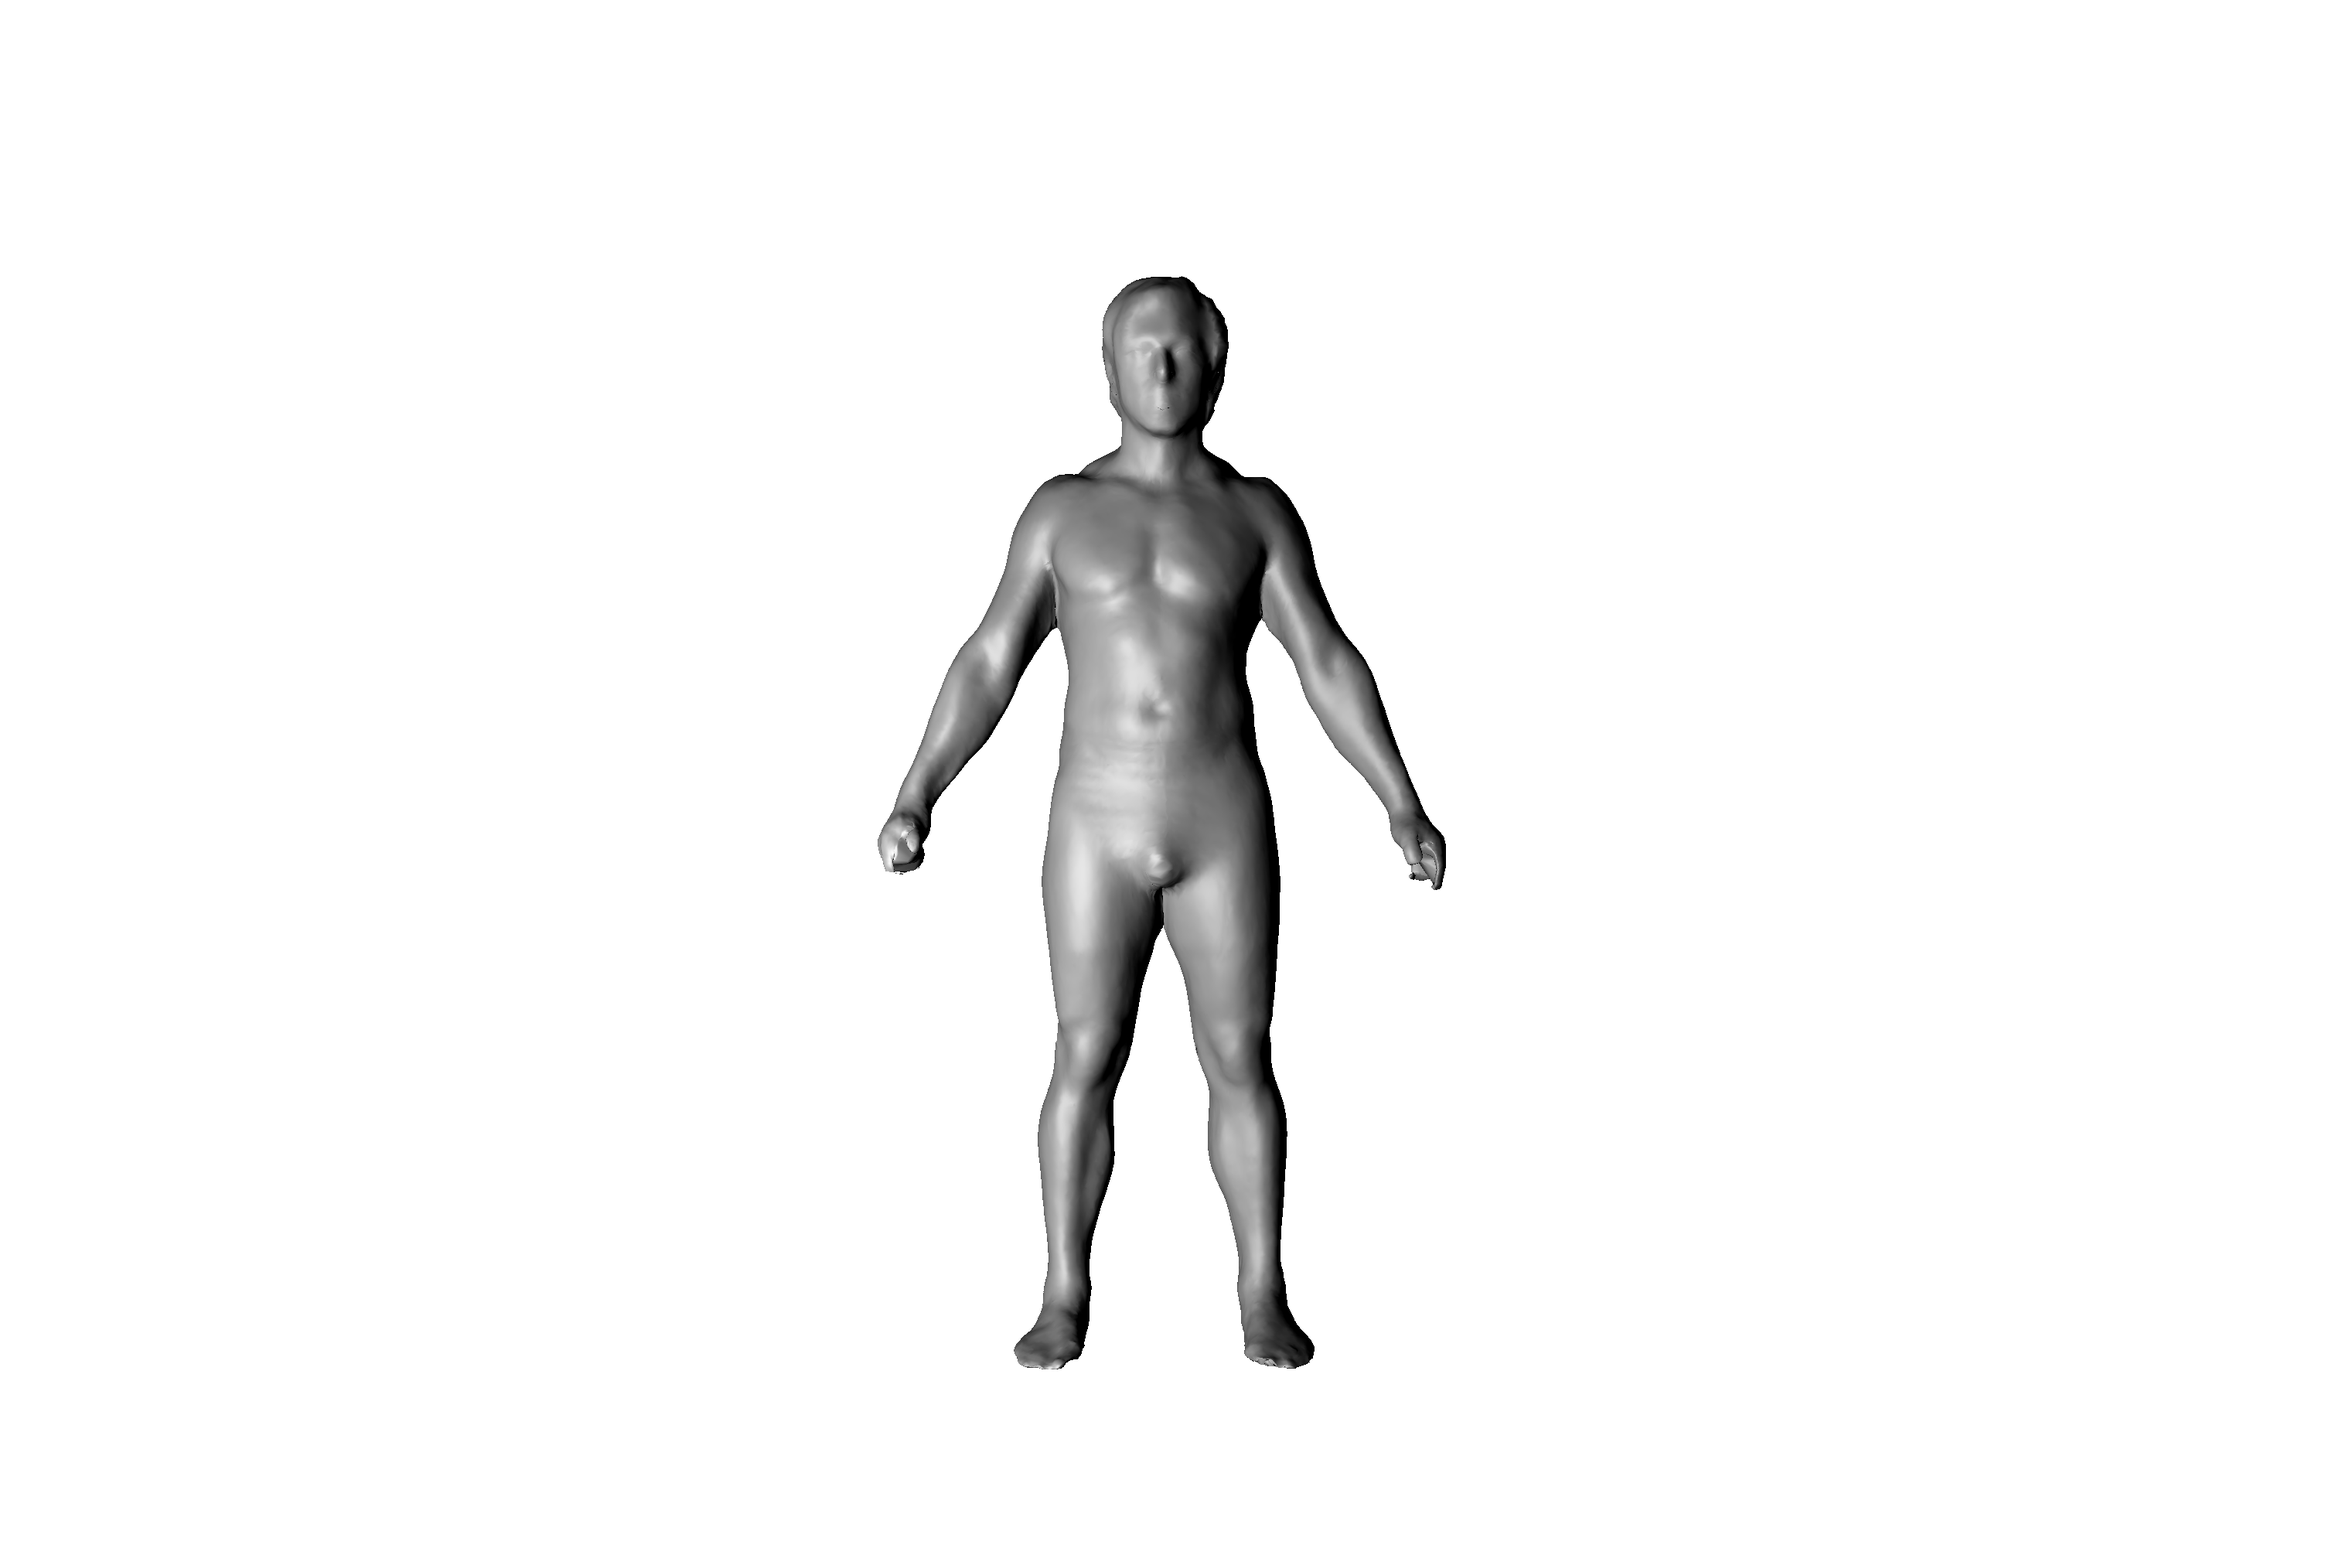
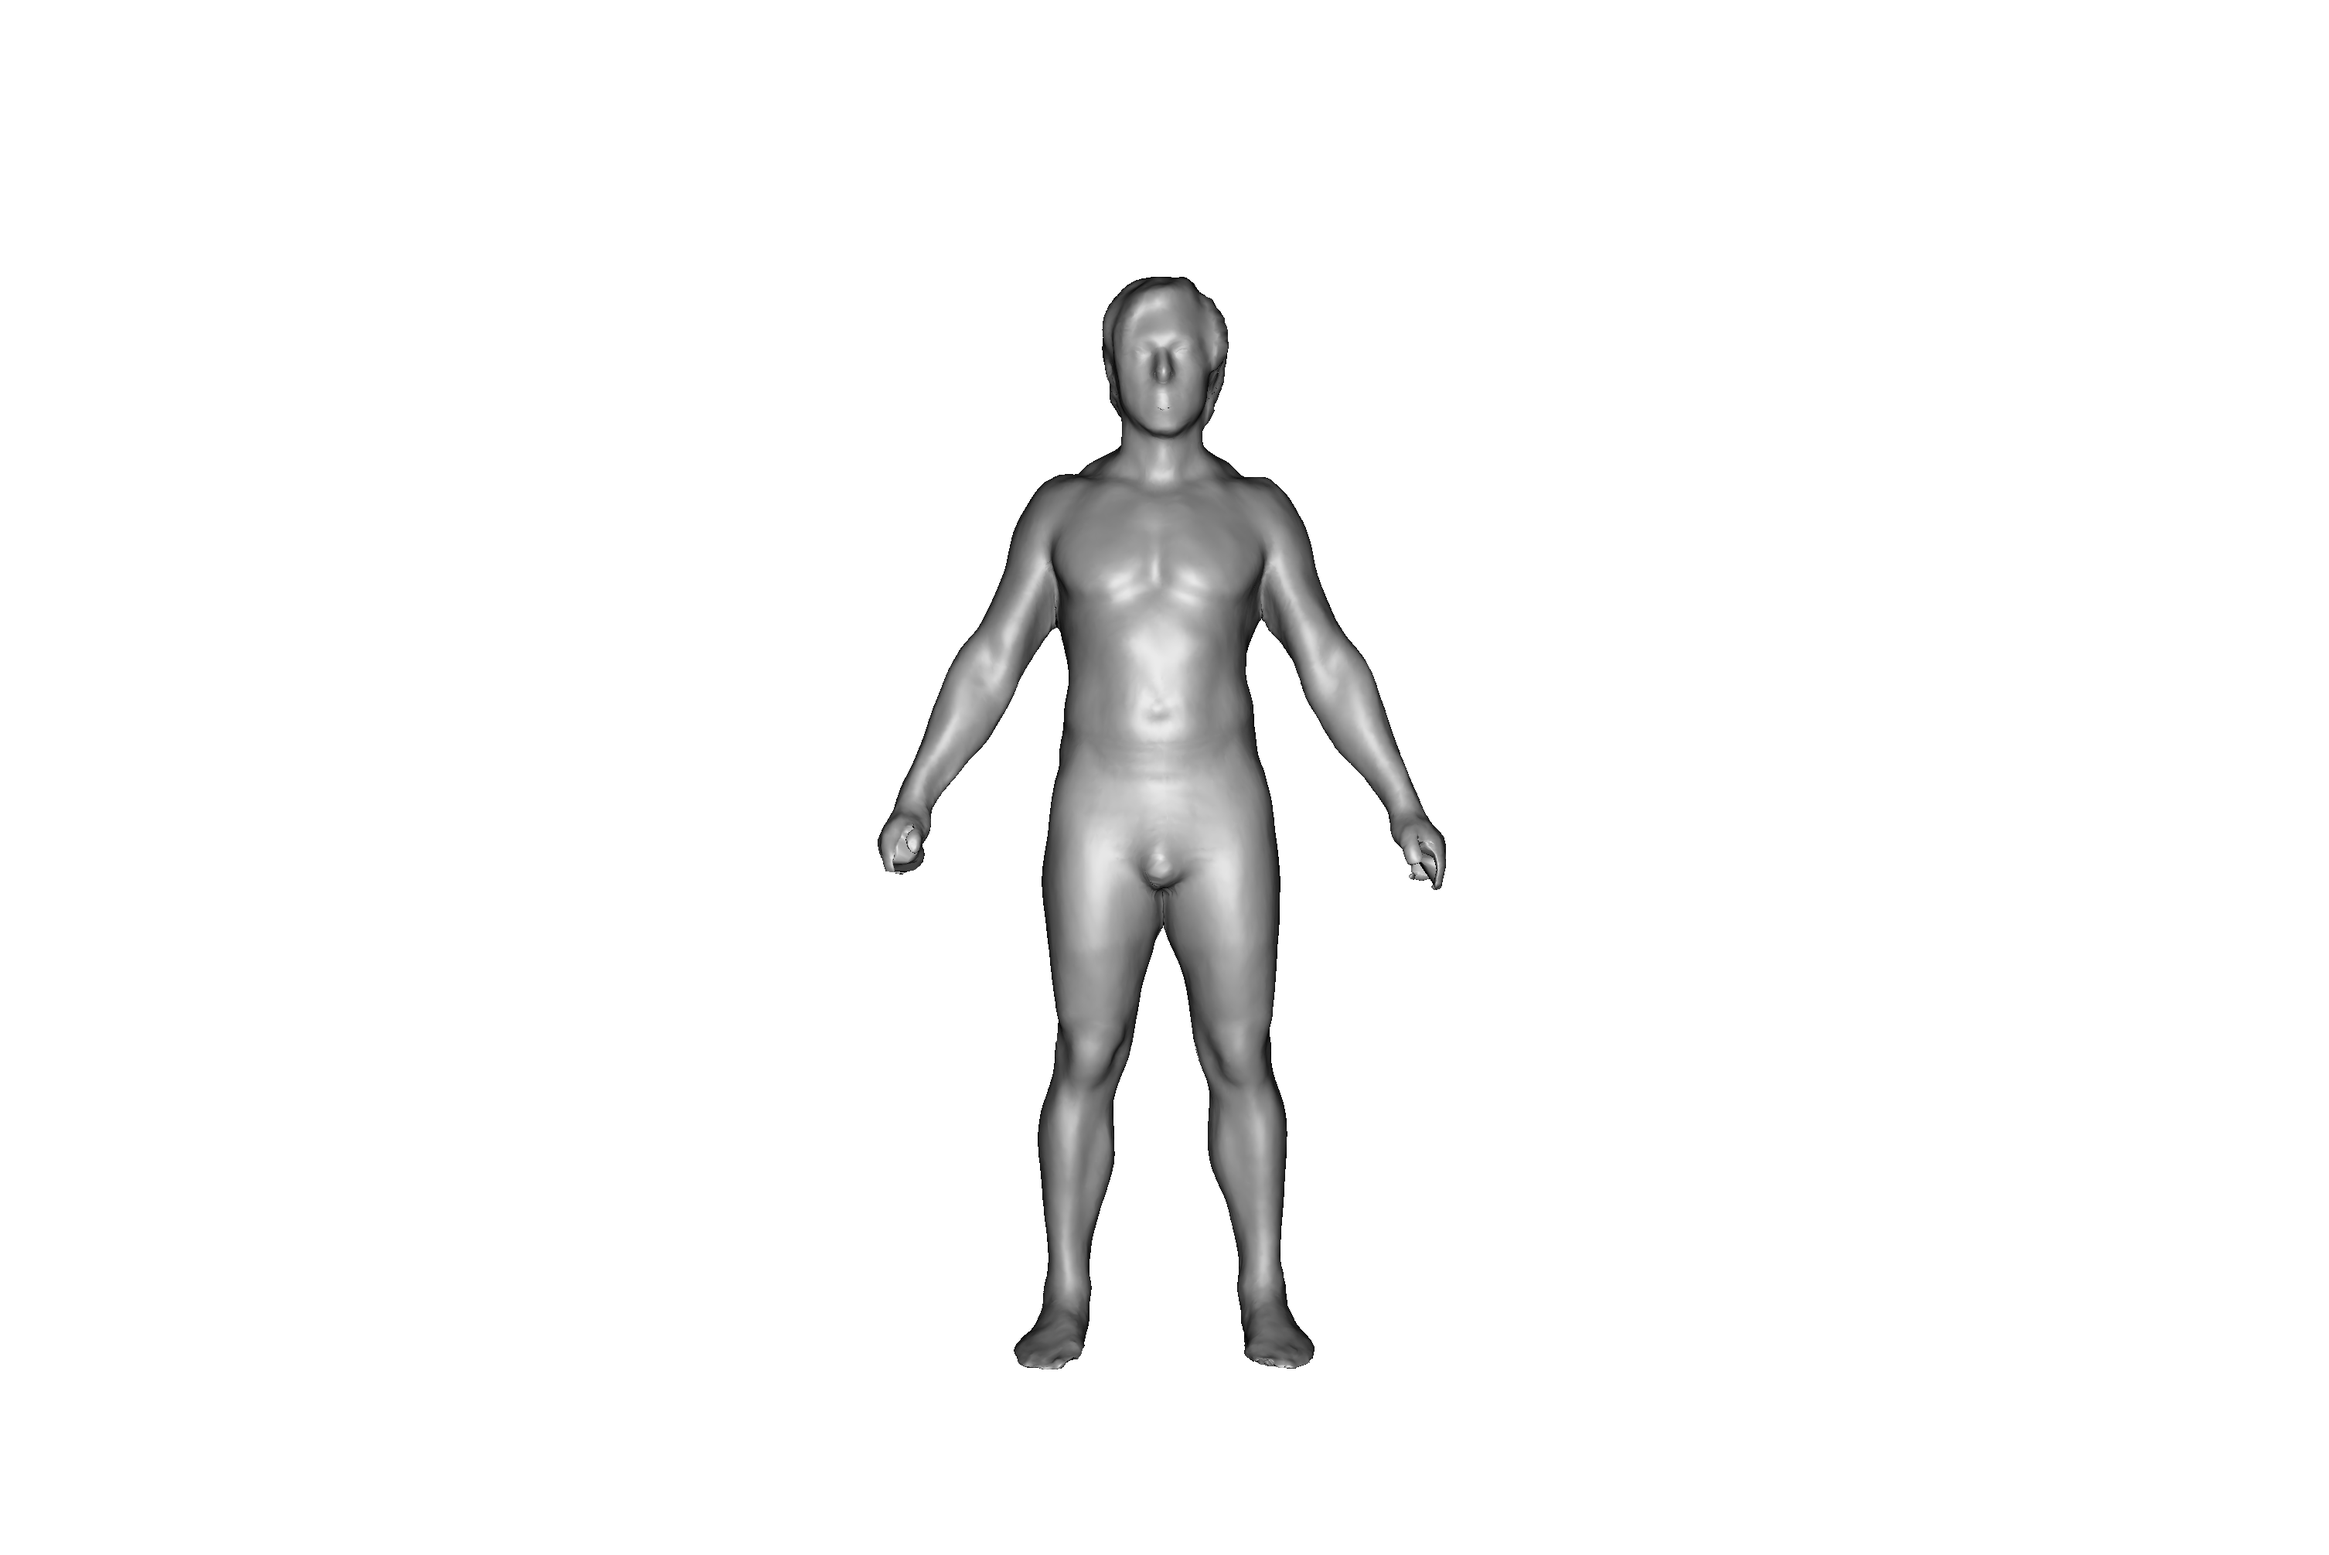
Created comparison of border_point list. Definitely divergence in specific area, but may be unrelated.

Changed region(s): [[0.3745, 0.185, 0.6242, 0.8941]]

diff --git a/findborder/cudareadsilhouette_test_compare.py b/findborder/cudareadsilhouette_test_compare.py
@@ -5,79 +5,53 @@ import sys
 import struct
 
 #takes a png file with an alpha channel and plots it to a ply file scaled to the subject's known height.
-def cudaPlotSilhouette(png):
+def cudaPlotSilhouette(png1, png2):
 
     #4 channel RGBA image represented as a numpy array
     #img[r,c] = [b, g, r, a], img[r,c,3] = alpha channel
-    img = cv2.imread(png, -1)
+    img1 = cv2.imread(png1, -1)
+    img2 = cv2.imread(png2, -1)
+
     plypoints = []
 
     # Used to loop through neighbors, counterclockwise
     #row,column, (Y,X)
     #east, southeast, south, southwest, west, northwest, north, northeast
     bd = [[0,1], [-1,1], [-1,0], [-1,-1], [0, -1], [1,-1], [1,0], [1,1]]
-    point_map = {}
-    first = True
+    png1_list = []
+    png2_list = []
     
-    print("Generating Graph")
+    print("Generating Lists")
     #iterate through the entire map to create a full graph. We can use find_border_children and add them to the map
     #this will allow us to find a comprehensive graph/mapping that we can iterate through
     #let's still store first point as a starting point for the loop
-    for r in range(0, img.shape[0]):
-        for c in range(0, img.shape[1]):
+    for r in range(0, img1.shape[0]):
+        for c in range(0, img1.shape[1]):
             currP = (r,c)
             #if alpha value 1 (border)
             #find all borders around this one and map it
-            if img[r,c,3] != 0 and is_border_pixel(img,currP, bd):
-                
-                if(first):
-                    firstPoint = currP
-                    first = False
-                children = find_border_children(img, currP, bd)
-                point_map[currP] = children
-    if firstPoint is None:
-        print("No pixel values with value 1")
-        exit()
+            if img1[r,c,3] != 0 and is_border_pixel(img1,currP, bd):
+                png1_list.append(currP)
 
-    seen_points = set()
-    seen_points.add(firstPoint)
-    currPoint = firstPoint
-    point_list = []
+    for r in range(0, img2.shape[0]):
+        for c in range(0, img2.shape[1]):
+            currP = (r,c)
+            #if alpha value 1 (border)
+            #find all borders around this one and map it
+            if img2[r,c,3] != 0 and is_border_pixel(img2,currP, bd):
+                png2_list.append(currP)
 
+    print("Comparing:")
+    print(Diff(png1_list,png2_list))
+    #list(set(li1)-set(li2))
+    #list(set(li2)-set(li1))
+    print("Exclusive to mask 1")
+    print(list(set(png1_list) - set(png2_list)))
+    print("Exclusive to mask 2")
+    print(list(set(png2_list) - set(png1_list)))
 
-    print("Exploring graph")
-    #Calvin implementation with direction reversed
-    #his was supposed to be clockwise but it went reverse
-    while True:
-        next = None
-        currChildren = point_map[currPoint]
-        for i, child in enumerate(currChildren):
-            if child not in seen_points:
-                next = child
-                break
-        if next is None:
-            if points_in_range(firstPoint, currPoint, bd):
-                break
-            if len(point_list) == 1:
-                print("first_border is the only pixel with alpha = 1 in range")
-                exit()
-            currPoint = point_list.pop()   
-        else:
-            point_list.append(next)
-            seen_points.add(next)
-            currPoint = next
-
-
-    print(point_map)
-    #print(len(point_map.keys()))
-    #print(len(point_map.values()))
-    print(point_list)
-    print("point_map size: " + str(len(point_map)))
-    print("point_list size: " + str(len(point_list)))
-    print("first pixel: " + str(firstPoint))
-    print("last pixel: " + str(currPoint))
     fileName = "C:\\Users\\willi\\Desktop\\Programming\\Undergrad-Research\\findborder\\result_graph.png"
-    cv2.imwrite(fileName,img)
+    cv2.imwrite(fileName,img1)
 
 # Find neighboring points that are also border pixels
 def find_border_children(img, point, bd):
@@ -124,7 +98,10 @@ def points_in_range(p1, p2, bd):
 
     return False
 
+def Diff(li1, li2): 
+    return (list(list(set(li1)-set(li2)) + list(set(li2)-set(li1))))     
+
 #C:\\Users\\willi\\Desktop\\Programming\\Undergrad-Research\\findborder\\mask0002.png
 #C:\\Users\\Brilliance\\Desktop\\Projects\\Undergrad-Research\\findborder\\mask0002.png
 if __name__ == "__main__":
-    cudaPlotSilhouette("C:\\Users\\willi\\Desktop\\Programming\\Undergrad-Research\\findborder\\mask0001.png")
+    cudaPlotSilhouette("C:\\Users\\willi\\Desktop\\Programming\\Undergrad-Research\\findborder\\mask0001.png","C:\\Users\\willi\\Desktop\\Programming\\Undergrad-Research\\findborder\\mask0002.png")
